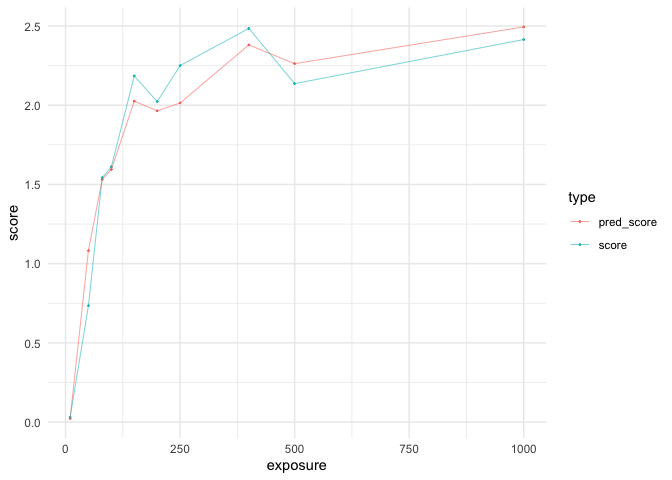
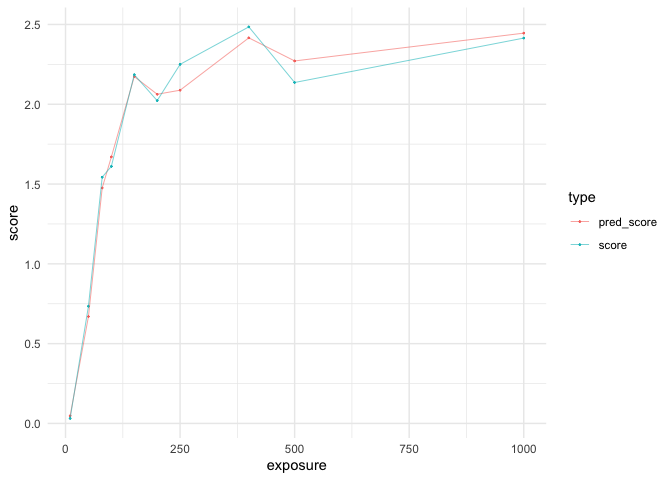
Revise README

diff --git a/README.md b/README.md
@@ -165,6 +165,104 @@ tva_model
 #>   - type = "stan"
 ```
 
+The generated Stan model looks like this:
+
+``` stan
+/*************************************************************************************
+ *  StanTVA
+ *  =======
+ *  This is a StanTVA program, generated with RStanTVA. Please cite as:
+ *  
+ *  Rabe M, Kyllingsbæk S (2024). _RStanTVA: TVA models in Stan using R and
+ *  StanTVA_. R package version 0.1.0.
+ *  
+ *  Configuration
+ *  =============
+ *  - locations = 6
+ *  - task = pr
+ *  - regions = list()
+ *  - C_mode = equal
+ *  - w_mode = locations
+ *  - t0_mode = gaussian
+ *  - K_mode = free
+ *  - parallel = FALSE
+ *  - save_log_lik = FALSE
+ *  - predict_scores = TRUE
+ *  - priors = FALSE
+ *  - sanity_checks = FALSE
+ *  - simulate = FALSE
+ *  - type = stan
+ *  
+ *  License
+ *  =======
+ *  StanTVA and RStanTVA are licensed under the GNU General Public License 3. For a
+ *  copy of the license agreement, see: https://www.gnu.org/licenses/gpl-3.0.html
+ *************************************************************************************/
+
+functions {
+    #include tva.stan
+    #include freeK.stan
+    #include gaussiant0.stan
+    vector calculate_v(int nS, array[] int S, array[] int D, vector w, vector s, real alpha) {
+        array[nS] int Ss = get_matches(S);
+        vector[6] w_alpha = w;
+        for(i in 1:6) if(D[i]) w_alpha[i] *= alpha;
+        vector[nS] v = s[Ss] .* w_alpha[Ss] / sum(w_alpha[Ss]);
+        for(i in 1:nS) if(v[i] < machine_precision()) v[i] = machine_precision();
+        return v/1000.0;
+    }
+    real log_lik_single(array[] int S, array[] int D, array[] int R, int nS, real T, vector w, vector s, real alpha, vector pK, real mu0, real sigma0) {
+        vector[nS] v = calculate_v(nS, S, D, w, s, alpha);
+        return tva_pr_log(R, S, D, T, [mu0, sigma0]', pK, v);
+    }
+    vector predict_score_single(array[] int S, array[] int D, int nS, real T, vector w, vector s, real alpha, vector pK, real mu0, real sigma0) {
+        vector[7] p;
+        for(i in 0:5) {
+            vector[nS] v = calculate_v(nS, S, D, w, s, alpha);
+            p[i+1] = exp(tva_pr_score_log(i, S, D, T, [mu0, sigma0]', pK, v));
+        }
+        p[7] = 1.0 - sum(p[:6]);
+        return p;
+    }
+}
+data {
+    int<lower=1> N;
+    array[N] real<lower=0> T;
+    array[N,6] int<lower=0,upper=1> S;
+    array[N,6] int<lower=0,upper=1> R;
+    array[N,6] int<lower=0,upper=1> D;
+}
+transformed data {
+    array[N] int nS;
+    for(i in 1:N) nS[i] = sum(S[i,]);
+    int total_nS = sum(nS);
+}
+parameters {
+    real<lower=machine_precision()> C;
+    simplex[6] w;
+    simplex[7] pK;
+    real mu0;
+    real<lower=machine_precision()> sigma0;
+    real<lower=machine_precision()> alpha;
+}
+transformed parameters {
+    vector[6] s;
+    s = rep_vector(C, 6);
+}
+model {
+    // likelihood (only if prior != 0)
+    if(target() != negative_infinity()) {
+        for(i in 1:N) target += log_lik_single(S[i], D[i], R[i], nS[i], T[i], w, s, alpha, pK, mu0, sigma0);
+    }
+}
+generated quantities {
+    real mK = 1 * pK[2] + 2 * pK[3] + 3 * pK[4] + 4 * pK[5] + 5 * pK[6] + 6 * pK[7];
+    // scores
+    matrix[N,7] pred_scores;
+    for(i in 1:N) pred_scores[i,] = to_row_vector(predict_score_single(S[i], D[i], nS[i], T[i], w, s, alpha, pK, mu0, sigma0));
+}
+```
+
 Fit `tva_model` to the `tva_data` using maximum-likelihood estimation
 (MLE):
 
@@ -172,17 +270,17 @@ Fit `tva_model` to the `tva_data` using maximum-likelihood estimation
 tva_fit <- optimizing(tva_model, tva_data)
 str(tva_fit)
 #> List of 4
-#>  $ par        : Named num [1:2824] 59.8138 0.2254 0.0574 0.182 0.0543 ...
+#>  $ par        : Named num [1:2824] 125.4605 0.2333 0.0457 0.1721 0.0431 ...
 #>   ..- attr(*, "names")= chr [1:2824] "C" "w[1]" "w[2]" "w[3]" ...
-#>  $ value      : num -544
+#>  $ value      : num -527
 #>  $ return_code: int 0
-#>  $ theta_tilde: num [1, 1:2824] 59.8138 0.2254 0.0574 0.182 0.0543 ...
+#>  $ theta_tilde: num [1, 1:2824] 125.4605 0.2333 0.0457 0.1721 0.0431 ...
 #>   ..- attr(*, "dimnames")=List of 2
 #>   .. ..$ : NULL
 #>   .. ..$ : chr [1:2824] "C" "w[1]" "w[2]" "w[3]" ...
 tva_fit$par[c("C","alpha","mu0","sigma0","mK")]
 #>          C      alpha        mu0     sigma0         mK 
-#> 59.8138042  1.7024483  9.4218619  0.1366502  4.4831927
+#> 125.460482   1.967497  40.408641  21.744538   4.257565
 ```
 
 Predicted scores vs. empirical scores:
